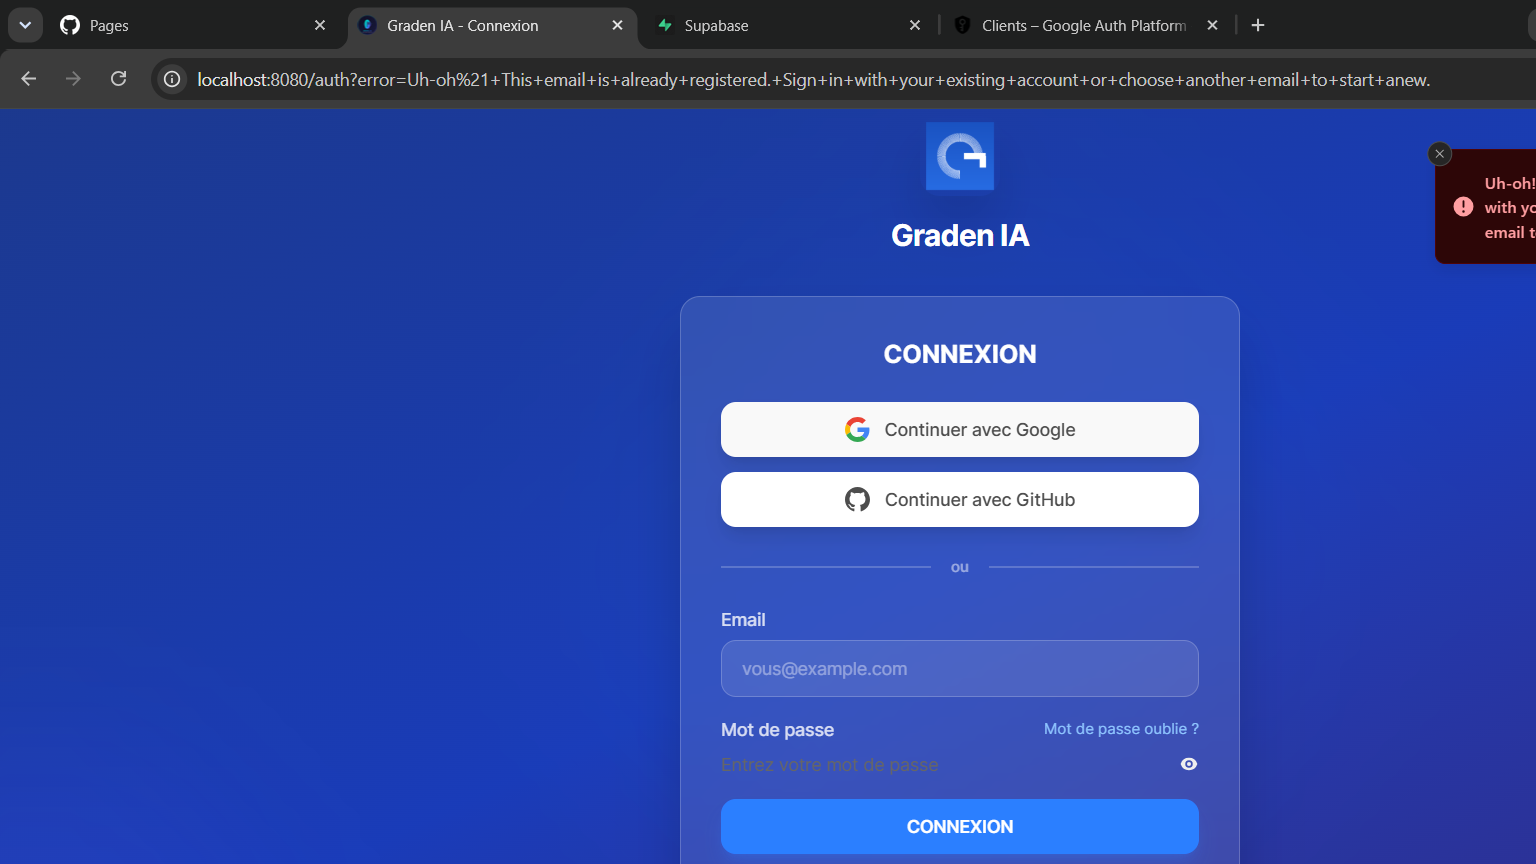
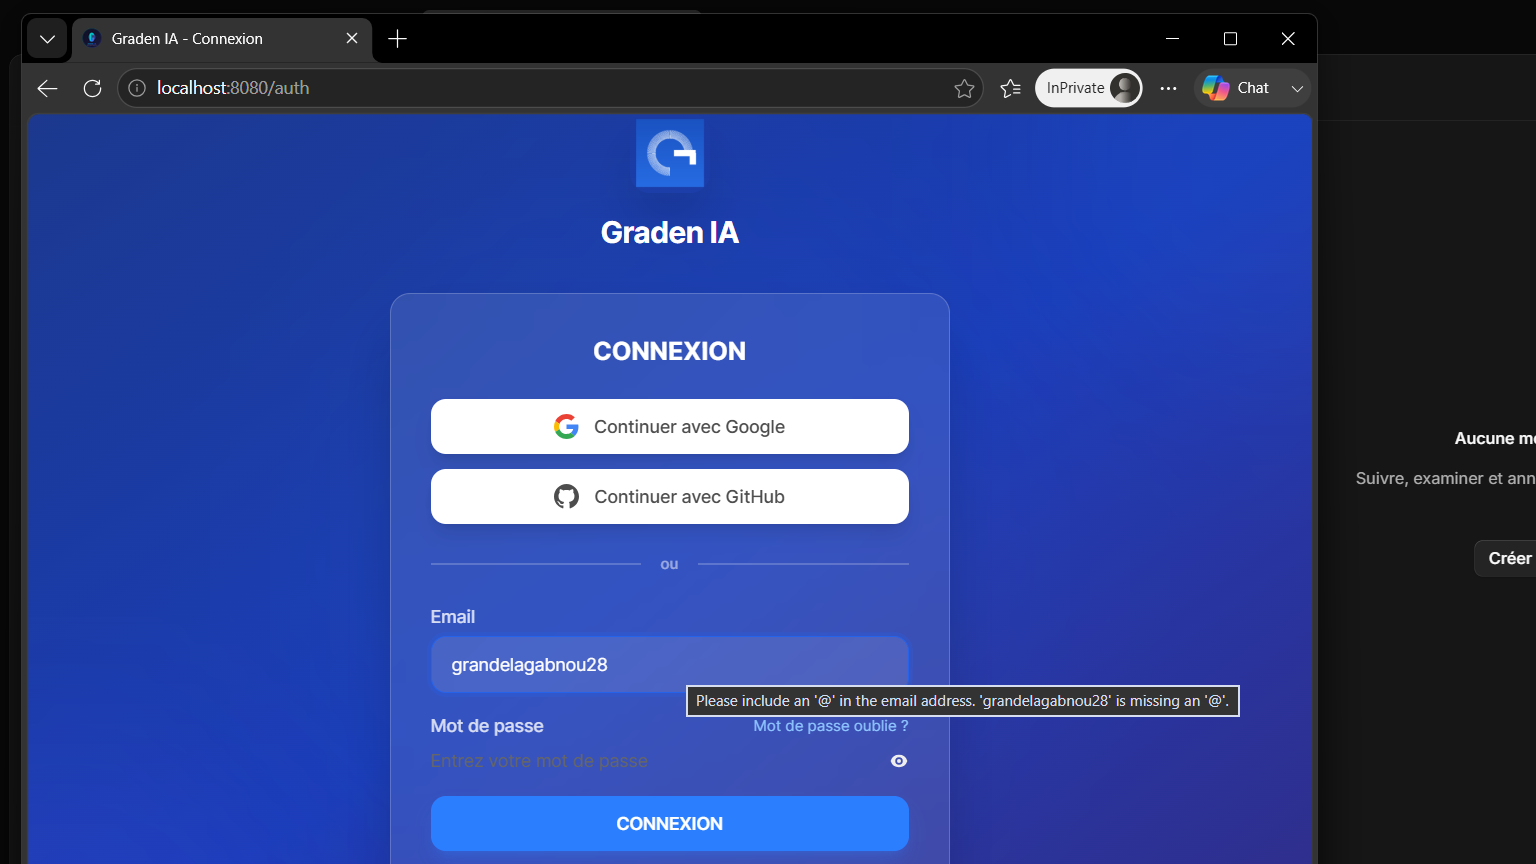
screenshots: nouvelles captures auth, inscription, chat, installation

diff --git a/docs/screenshots.html b/docs/screenshots.html
@@ -106,14 +106,28 @@
             <div class="screenshots-grid">
                 <div class="screenshot-card">
                     <div class="screenshot-image">
-                        <img src="screenshots/home.png" alt="Page d'accueil Graden IA" loading="lazy">
+                        <img src="screenshots/auth_page.png" alt="Page de connexion Graden IA" loading="lazy">
                     </div>
                     <div class="screenshot-info">
-                        <h3>Page d'accueil</h3>
-                        <p>Ecran d'accueil avec selection de modele et suggestions de conversation.</p>
+                        <h3>Page de connexion</h3>
+                        <p>Authentification avec Google, GitHub ou email/mot de passe. Style Antigravity.</p>
                         <span class="screenshot-tag">
-                            <svg viewBox="0 0 24 24" fill="none" stroke="currentColor" stroke-width="2"><path d="M3 9l9-7 9 7v11a2 2 0 0 1-2 2H5a2 2 0 0 1-2-2z"/></svg>
-                            Accueil
+                            <svg viewBox="0 0 24 24" fill="none" stroke="currentColor" stroke-width="2"><path d="M15 3h4a2 2 0 0 1 2 2v14a2 2 0 0 1-2 2h-4"/><polyline points="10 17 15 12 10 7"/><line x1="15" y1="12" x2="3" y2="12"/></svg>
+                            Connexion
+                        </span>
+                    </div>
+                </div>
+
+                <div class="screenshot-card">
+                    <div class="screenshot-image">
+                        <img src="screenshots/inscription.png" alt="Page d'inscription Graden IA" loading="lazy">
+                    </div>
+                    <div class="screenshot-info">
+                        <h3>Inscription</h3>
+                        <p>Creer un compte avec Google, GitHub ou formulaire email. Design premium.</p>
+                        <span class="screenshot-tag">
+                            <svg viewBox="0 0 24 24" fill="none" stroke="currentColor" stroke-width="2"><path d="M16 21v-2a4 4 0 0 0-4-4H5a4 4 0 0 0-4 4v2"/><circle cx="8.5" cy="7" r="4"/><line x1="20" y1="8" x2="20" y2="14"/><line x1="23" y1="11" x2="17" y2="11"/></svg>
+                            Inscription
                         </span>
                     </div>
                 </div>
@@ -124,7 +138,7 @@
                     </div>
                     <div class="screenshot-info">
                         <h3>Chat IA</h3>
-                        <p>Conversation avec qwen2.5:0.5b. Reponses en temps reel avec streaming.</p>
+                        <p>Interface de chat avec gemma3:1b. Modeles rapides et lents disponibles.</p>
                         <span class="screenshot-tag">
                             <svg viewBox="0 0 24 24" fill="none" stroke="currentColor" stroke-width="2"><path d="M21 15a2 2 0 0 1-2 2H7l-4 4V5a2 2 0 0 1 2-2h14a2 2 0 0 1 2 2z"/></svg>
                             Conversation
@@ -134,14 +148,14 @@
 
                 <div class="screenshot-card">
                     <div class="screenshot-image">
-                        <img src="screenshots/settings.png" alt="Parametres Graden IA" loading="lazy">
+                        <img src="screenshots/installation.png" alt="Page installation Graden IA" loading="lazy">
                     </div>
                     <div class="screenshot-info">
-                        <h3>Parametres Admin</h3>
-                        <p>Panneau d'administration complet : modeles, connexions, securite et plus.</p>
+                        <h3>Installation</h3>
+                        <p>Guide d'installation rapide (Windows) ou manuelle avec commandes.</p>
                         <span class="screenshot-tag">
-                            <svg viewBox="0 0 24 24" fill="none" stroke="currentColor" stroke-width="2"><circle cx="12" cy="12" r="3"/><path d="M19.4 15a1.65 1.65 0 0 0 .33 1.82l.06.06a2 2 0 0 1 0 2.83 2 2 0 0 1-2.83 0l-.06-.06a1.65 1.65 0 0 0-1.82-.33 1.65 1.65 0 0 0-1 1.51V21a2 2 0 0 1-2 2 2 2 0 0 1-2-2v-.09A1.65 1.65 0 0 0 9 19.4a1.65 1.65 0 0 0-1.82.33l-.06.06a2 2 0 0 1-2.83 0 2 2 0 0 1 0-2.83l.06-.06A1.65 1.65 0 0 0 4.68 15a1.65 1.65 0 0 0-1.51-1H3a2 2 0 0 1-2-2 2 2 0 0 1 2-2h.09A1.65 1.65 0 0 0 4.6 9a1.65 1.65 0 0 0-.33-1.82l-.06-.06a2 2 0 0 1 0-2.83 2 2 0 0 1 2.83 0l.06.06A1.65 1.65 0 0 0 9 4.68a1.65 1.65 0 0 0 1-1.51V3a2 2 0 0 1 2-2 2 2 0 0 1 2 2v.09a1.65 1.65 0 0 0 1 1.51 1.65 1.65 0 0 0 1.82-.33l.06-.06a2 2 0 0 1 2.83 0 2 2 0 0 1 0 2.83l-.06.06A1.65 1.65 0 0 0 19.4 9a1.65 1.65 0 0 0 1.51 1H21a2 2 0 0 1 2 2 2 2 0 0 1-2 2h-.09a1.65 1.65 0 0 0-1.51 1z"/></svg>
-                            Administration
+                            <svg viewBox="0 0 24 24" fill="none" stroke="currentColor" stroke-width="2"><path d="M21 15v4a2 2 0 0 1-2 2H5a2 2 0 0 1-2-2v-4"/><polyline points="7 10 12 15 17 10"/><line x1="12" y1="15" x2="12" y2="3"/></svg>
+                            Installation
                         </span>
                     </div>
                 </div>
